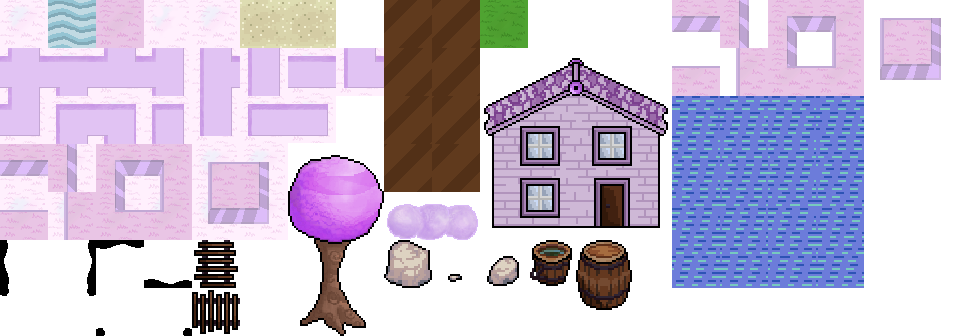
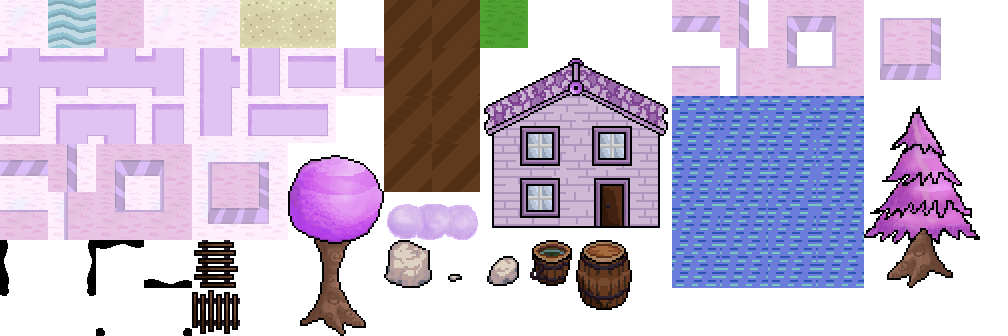
Added a new tree decoration

diff --git a/src/terrain/tile_image_loader.py b/src/terrain/tile_image_loader.py
@@ -134,6 +134,7 @@ walkable_water = (
 )
 boardwalk_1 = (192, 240, 48, 48)
 boardwalk_2 = (192, 288, 48, 48)
+spruce_tree = (864, 96, 116, 192)
 
 
 # Indexing this array by a tiles' ID will
@@ -158,7 +159,7 @@ tiles = [generic_ground, blue_ground, path_1,
          solid_sand, sand_shore_1, sand_shore_2, sand_shore_3,
          sand_shore_4, sand_shore_5, sand_shore_6,
          sand_shore_7, sand_shore_8, water, walkable_water,
-         boardwalk_1, boardwalk_2]
+         boardwalk_1, boardwalk_2, spruce_tree]
 images = {}
 
 sprite_sheet = None

diff --git a/src/terrain/tile_data.py b/src/terrain/tile_data.py
@@ -80,4 +80,5 @@ tile_colors = {15724527: "0000",  # Generic ground
                13369344: "0073",  # Walkable Water
                16252672: "0074",  # Boardwalk 1
                13028352: "0075",  # Boardwalk 2
+               8398970: "0076",  # Spruce Tree
                }

diff --git a/src/terrain/tile_types.py b/src/terrain/tile_types.py
@@ -40,7 +40,8 @@ shadowed_decs = [
     "0046",
     "0047",
     "0048",
-    "0049"
+    "0049",
+    "0076"
 ]
 
 # Vertical distance from sprite to shadow
